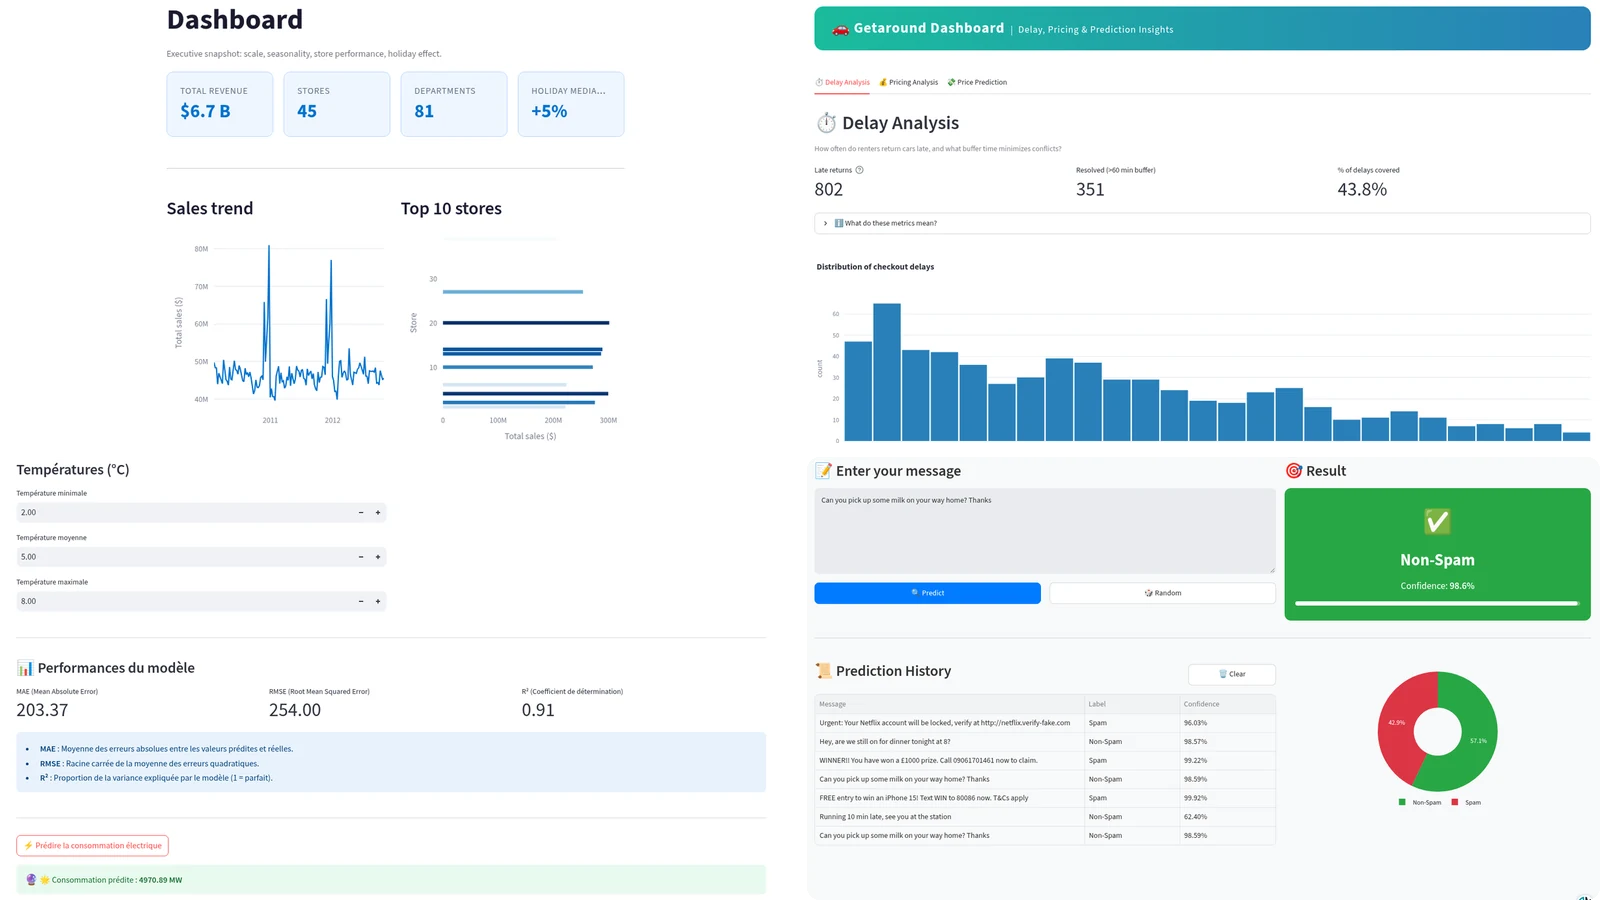
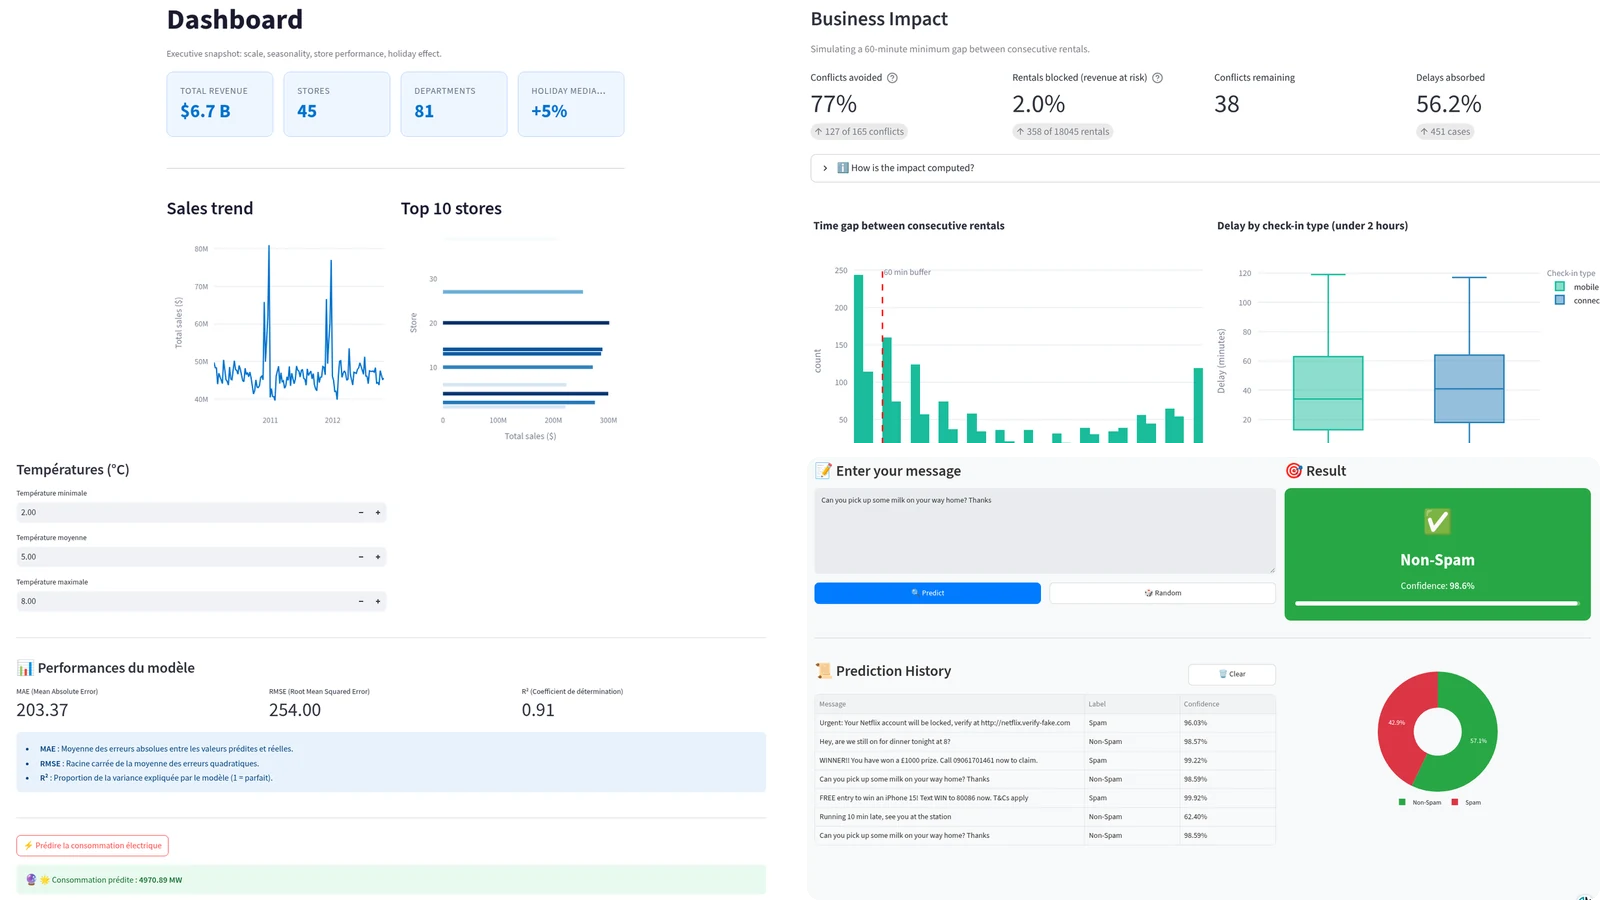
Rewrite project cards around business results
- Retail reframed as a store performance review (5 recommendations, up to $139M a year)
- Getaround leads with the buffer trade-off (77% of conflicts avoided, 2% of rentals blocked)
- Hexa Watts and SMS Spam rewritten as question and result
- New Getaround screenshot from the corrected dashboard; hero and social images rebuilt
- French typography: non-breaking spaces before ? : and %, and between numbers and units

diff --git a/index.html b/index.html
@@ -15,12 +15,12 @@
 		<meta property="og:url" content="https://cnoret.github.io/" />
 		<meta property="og:title" content="Christophe Noret | Data Analyst · Analytics Engineer" />
 		<meta property="og:description" content="End-to-end data projects: KPIs, forecasting, models and interactive dashboards. Based in Angers / Nantes, open to remote." />
-		<meta property="og:image" content="https://cnoret.github.io/images/og-card.jpg" />
+		<meta property="og:image" content="https://cnoret.github.io/images/og-card.jpg?v=2" />
 		<meta property="og:image:width" content="1200" />
 		<meta property="og:image:height" content="630" />
 		<meta property="og:image:alt" content="Christophe Noret, Data Analyst and Analytics Engineer, with four project dashboards" />
 		<meta name="twitter:card" content="summary_large_image" />
-		<meta name="twitter:image" content="https://cnoret.github.io/images/og-card.jpg" />
+		<meta name="twitter:image" content="https://cnoret.github.io/images/og-card.jpg?v=2" />
 		<link rel="canonical" href="https://cnoret.github.io/" />
 		<script type="application/ld+json">
 		{
@@ -121,7 +121,7 @@
 								</div>
 								<div class="col-12-mobile hero-visual-col">
 									<div class="hero-visual">
-										<img class="hero-quad" data-i18n-alt="hero.alt" src="images/hero-dashboards.webp" alt="Four project dashboards: retail sales, car rental pricing, French energy consumption and SMS spam detection" width="1600" height="900" />
+										<img class="hero-quad" data-i18n-alt="hero.alt" src="images/hero-dashboards.webp?v=2" alt="Four project dashboards: retail sales, car rental pricing, French energy consumption and SMS spam detection" width="1600" height="900" />
 									</div>
 								</div>
 							</div>
@@ -141,15 +141,15 @@
 							<div class="row">
 								<div class="col-6 col-12-mobile">
 									<article class="item">
-										<a href="https://retail-data-analysis.streamlit.app/" class="image fit" target="_blank" rel="noopener noreferrer"><img data-i18n-alt="p1.alt" src="images/projects/retail.webp" width="1200" height="675" loading="lazy" decoding="async" alt="Retail Sales Analysis" /></a>
+										<a href="https://retail-data-analysis.streamlit.app/" class="image fit" target="_blank" rel="noopener noreferrer"><img data-i18n-alt="p1.alt" src="images/projects/retail.webp" width="1200" height="675" loading="lazy" decoding="async" alt="Store Performance Review (Walmart)" /></a>
 										<header>
-											<h3 data-i18n="p1.title">Retail Sales Analysis</h3>
+											<h3 data-i18n="p1.title">Store Performance Review (Walmart)</h3>
 										</header>
-										<p class="item-desc" data-i18n="p1.desc">Weekly sales analysis of 45 Walmart stores: KPIs, seasonality and sales forecasting (R² 0.96), delivered as an interactive dashboard.</p>
+										<p class="item-desc" data-i18n="p1.desc">A regional manager must set priorities: which stores underperform, which departments to back, how to plan the holiday peak? 5 quantified recommendations, including 7 stores to audit worth up to $139M a year.</p>
 										<p class="item-tags">
 											<span>Python</span>
 											<span>pandas</span>
-											<span>scikit-learn</span>
+											<span>Plotly</span>
 											<span>Streamlit</span>
 										</p>
 										<p class="item-links">
@@ -160,11 +160,11 @@
 								</div>
 								<div class="col-6 col-12-mobile">
 									<article class="item">
-										<a href="https://cnoret-getaround-dashboard.hf.space/" class="image fit" target="_blank" rel="noopener noreferrer"><img data-i18n-alt="p2.alt" src="images/projects/getaround.webp" width="1200" height="675" loading="lazy" decoding="async" alt="Car Rental Pricing (Getaround)" /></a>
+										<a href="https://cnoret-getaround-dashboard.hf.space/" class="image fit" target="_blank" rel="noopener noreferrer"><img data-i18n-alt="p2.alt" src="images/projects/getaround.webp?v=2" width="1200" height="675" loading="lazy" decoding="async" alt="Car Rental Pricing (Getaround)" /></a>
 										<header>
 											<h3 data-i18n="p2.title">Car Rental Pricing (Getaround)</h3>
 										</header>
-										<p class="item-desc" data-i18n="p2.desc">Rental price prediction served through an API and a dashboard, with MLflow tracking, tests and CI. MAE €10.68, R² 0.73.</p>
+										<p class="item-desc" data-i18n="p2.desc">What minimum gap should separate two rentals? 60 minutes would prevent 77% of handover conflicts while blocking only 2% of rentals. Plus a pricing API (MAE €10.68) shipped with MLflow, tests and CI.</p>
 										<p class="item-tags">
 											<span>Python</span>
 											<span>scikit-learn</span>
@@ -184,7 +184,7 @@
 										<header>
 											<h3 data-i18n="p3.title">French Energy Analysis (Hexa Watts)</h3>
 										</header>
-										<p class="item-desc" data-i18n="p3.desc">Team project of three: electricity consumption analysis and forecasting across French regions, based on date, time and temperature, in an interactive app.</p>
+										<p class="item-desc" data-i18n="p3.desc">Team project of three: how does weather shape regional electricity demand? We combined 4 open data sources (RTE, INSEE, Météo France, Eurostat) into an app that analyses and forecasts demand by region, date and temperature.</p>
 										<p class="item-tags">
 											<span>Python</span>
 											<span>pandas</span>
@@ -204,7 +204,7 @@
 										<header>
 											<h3 data-i18n="p4.title">SMS Spam Detection</h3>
 										</header>
-										<p class="item-desc" data-i18n="p4.desc">Neural network classifier that flags spam SMS in real time, trained on an imbalanced dataset. Spam precision 0.87, recall 0.92, F1 0.89.</p>
+										<p class="item-desc" data-i18n="p4.desc">Can a lightweight model filter spam SMS in real time? Yes: a 598 KB neural network catches 92% of spam (F1 0.89), trained on imbalanced data (13% spam).</p>
 										<p class="item-tags">
 											<span>Python</span>
 											<span>TensorFlow</span>
@@ -309,7 +309,7 @@
 			</div>
 
 		<!-- Scripts -->
-			<script src="assets/js/site.js?v=11"></script>
+			<script src="assets/js/site.js?v=14"></script>
 			<script src="assets/js/jquery.min.js"></script>
 			<script src="assets/js/jquery.scrolly.min.js"></script>
 			<script src="assets/js/jquery.scrollex.min.js"></script>

diff --git a/assets/js/site.js b/assets/js/site.js
@@ -9,7 +9,7 @@
 	var root = document.documentElement;
 
 	var FR = {
-		'meta.description': "Christophe Noret · Data Analyst et Analytics Engineer à Angers / Nantes. Projets data de bout en bout : KPI, prévisions, tableaux de bord.",
+		'meta.description': "Christophe Noret · Data Analyst et Analytics Engineer à Angers / Nantes. Projets data de bout en bout&nbsp;: KPI, prévisions, tableaux de bord.",
 
 		'nav.intro': 'Accueil',
 		'nav.about': 'À propos',
@@ -19,27 +19,27 @@
 		'hero.text': 'Pendant 8 ans, j’ai utilisé les données pour décider sur le terrain. Aujourd’hui, je construis toute la chaîne, des pipelines aux tableaux de bord.',
 		'hero.location': 'Angers / Nantes · télétravail possible',
 		'hero.cta': 'Me contacter',
-		'hero.alt': 'Quatre tableaux de bord de projets : ventes retail, tarification de location de voitures, consommation électrique en France et détection de spam SMS',
+		'hero.alt': 'Quatre tableaux de bord de projets&nbsp;: ventes retail, tarification de location de voitures, consommation électrique en France et détection de spam SMS',
 
 		'portfolio.intro': 'Quatre projets, chacun mené du nettoyage des données jusqu’à une application en ligne que vous pouvez tester.',
 		'link.demo': 'Démo',
 
-		'p1.title': 'Analyse des ventes retail',
-		'p1.desc': 'Analyse des ventes hebdomadaires de 45 magasins Walmart : KPI, saisonnalité et prévisions (R² 0,96) dans un tableau de bord interactif.',
-		'p1.alt': 'Analyse des ventes retail',
+		'p1.title': 'Revue de performance de 45 magasins (Walmart)',
+		'p1.desc': 'Un directeur régional doit fixer ses priorités&nbsp;: quels magasins sous-performent, quels rayons soutenir, comment préparer les fêtes&nbsp;? 5&nbsp;recommandations chiffrées, dont 7&nbsp;magasins à auditer pour un potentiel de 139&nbsp;M$ par an.',
+		'p1.alt': 'Revue de performance de 45 magasins (Walmart)',
 		'p2.title': 'Tarification de location de voitures (Getaround)',
-		'p2.desc': 'Prédiction du prix de location exposée via une API et un tableau de bord, avec suivi MLflow, tests et CI. MAE 10,68&nbsp;€ · R² 0,73.',
+		'p2.desc': 'Quel délai imposer entre deux locations&nbsp;? 60&nbsp;minutes éviteraient 77&nbsp;% des conflits de restitution en ne bloquant que 2&nbsp;% des locations. Plus une API de prédiction de prix (MAE 10,68&nbsp;€) livrée avec MLflow, tests et CI.',
 		'p2.alt': 'Tarification de location de voitures (Getaround)',
 		'p3.title': 'Analyse énergétique en France (Hexa Watts)',
-		'p3.desc': 'Projet d’équipe à trois : une application interactive qui analyse et prévoit la consommation électrique des régions françaises selon la date, l’heure et la température.',
+		'p3.desc': 'Projet d’équipe à trois&nbsp;: comment la météo pèse-t-elle sur la consommation électrique des régions&nbsp;? Nous avons croisé 4&nbsp;sources ouvertes (RTE, INSEE, Météo France, Eurostat) dans une application d’analyse et de prévision par région, date et température.',
 		'p3.alt': 'Analyse énergétique en France (Hexa Watts)',
 		'p4.title': 'Détection de spam SMS',
-		'p4.desc': 'Réseau de neurones qui détecte les spams SMS en temps réel, entraîné sur un jeu de données déséquilibré. Spam : précision 0,87 · rappel 0,92 · F1 0,89.',
+		'p4.desc': 'Peut-on filtrer les SMS indésirables en temps réel avec un modèle léger&nbsp;? Oui&nbsp;: un réseau de neurones de 598&nbsp;Ko repère 92&nbsp;% des spams (F1&nbsp;0,89), entraîné sur des données déséquilibrées (13&nbsp;% de spams).',
 		'p4.alt': 'Détection de spam SMS',
 
 		'about.title': 'À propos',
 		'about.p1': 'Après 8 ans en retail à suivre les ventes et les KPI, j’ai choisi la data.',
-		'about.p2': 'Aujourd’hui je suis Teaching Assistant data en freelance chez Jedha AI School : j’accompagne les apprenants en SQL, Python et machine learning.',
+		'about.p2': 'Aujourd’hui je suis Teaching Assistant data en freelance chez Jedha AI School&nbsp;: j’accompagne les apprenants en SQL, Python et machine learning.',
 		'about.p3': 'J’aime construire des pipelines complets et en faire des outils que les gens utilisent vraiment.',
 		'about.github': 'Voir mon GitHub',
 
